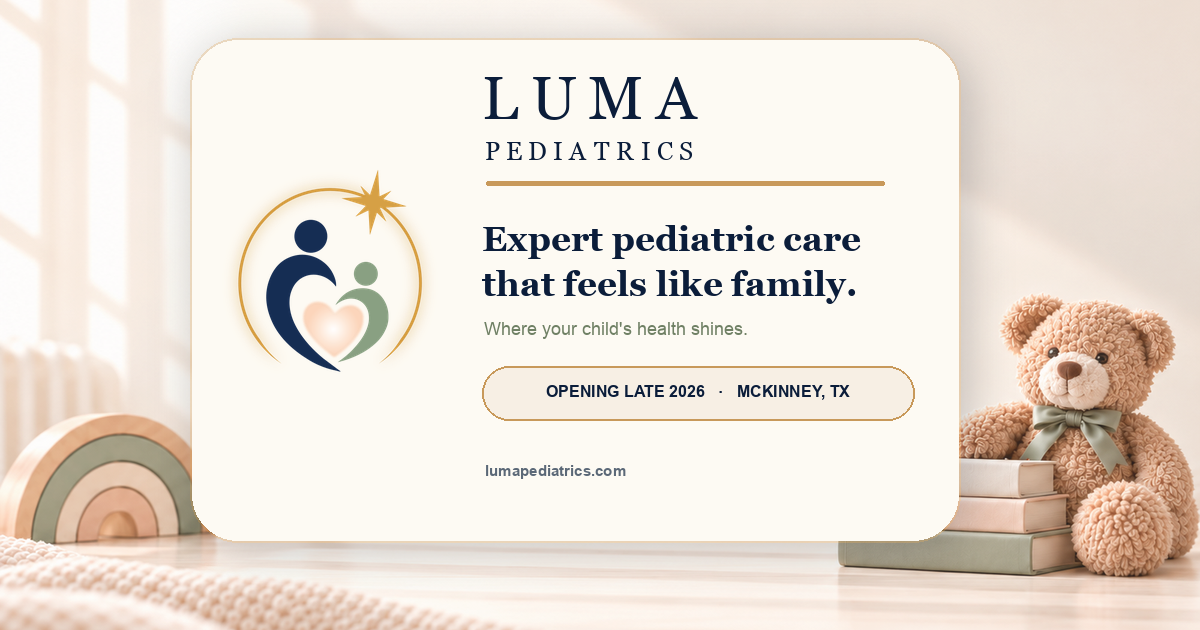
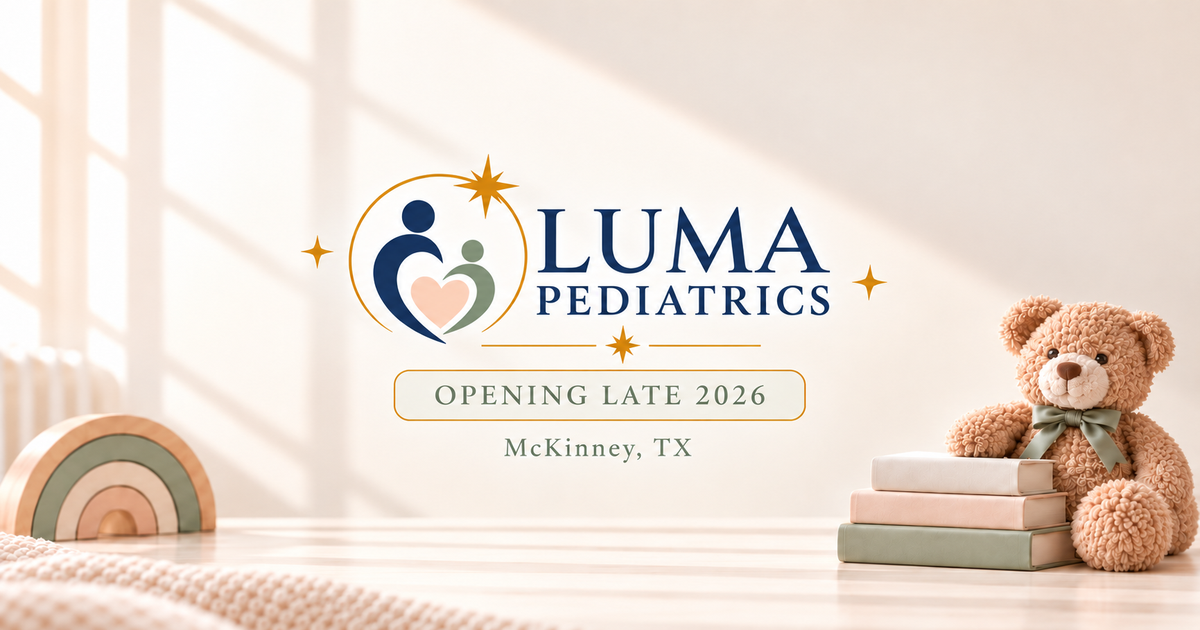
feat: use final social preview artwork
Copilot-Session: 61a253b2-afe4-4330-ac30-91d829813120

diff --git a/src/site.config.ts b/src/site.config.ts
@@ -18,7 +18,7 @@ export const SITE = {
   disambiguatingDescription:
     'Independent pediatric primary care practice in McKinney, Texas, operated by Luma Physician Group PLLC.',
   domain: 'https://www.lumapediatrics.com',
-  socialImage: '/og-luma-pediatrics-2026-09.png',
+  socialImage: '/og-luma-pediatrics-2026-09-15.png',
 
   /**
    * Provider-detail visibility flag.
